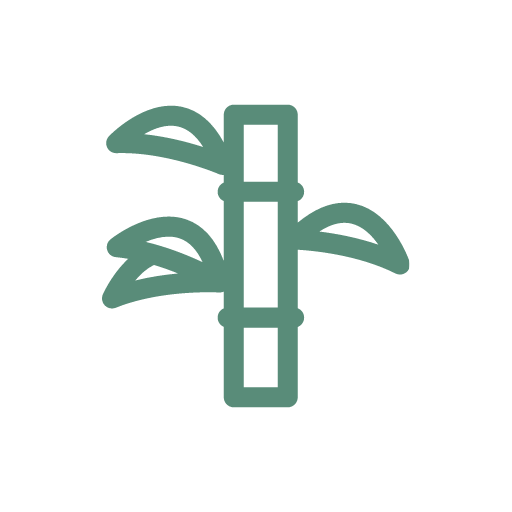
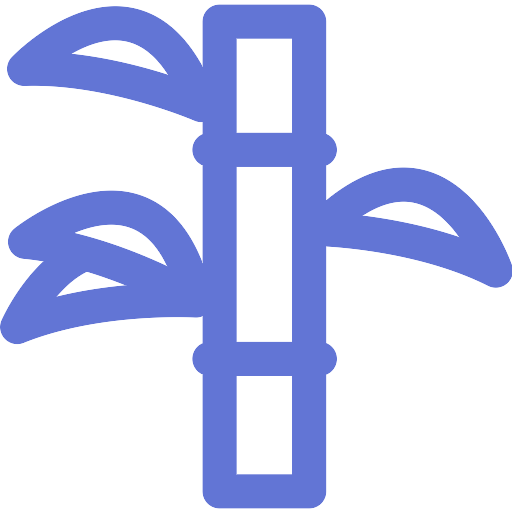
TG-214 Hainübersicht
Implemented grove overview page

diff --git a/groves/frontend/index.html b/groves/frontend/index.html
@@ -9,7 +9,7 @@
     <link data-trunk href="assets/background.webp" rel="copy-file">
     <link data-trunk href="assets/background-login.webp" rel="copy-file">
     <link data-trunk href="assets/icon512_maskable.png" rel="copy-file">
-    <link data-trunk href="assets/icon512_rounded.png" rel="copy-file">
+    <link data-trunk href="assets/icon512_favicon.png" rel="copy-file">
     <link data-trunk href="assets/manifest.json" rel="copy-file">
 
     <link data-trunk href="assets/fonts" rel="copy-dir">
@@ -25,12 +25,12 @@
     <link href="/static/favicon.png" rel="icon" type="image/png">
 
     <link href="/static/manifest.json" rel="manifest">
-    <link color="#598c79" href="/static/favicon.svg" rel="mask-icon">
+    <link color="#6275D5" href="/static/favicon.svg" rel="mask-icon">
 
-    <meta content="#598c79" name="msapplication-TileColor">
-    <meta content="#598c79" name="theme-color">
+    <meta content="#6275D5" name="msapplication-TileColor">
+    <meta content="#6275D5" name="theme-color">
     <meta content="width=device-width, initial-scale=1" name="viewport">
 </head>
-<body class="is--dark">
+<body>
 </body>
 </html>

diff --git a/groves/frontend/assets/css/app.css b/groves/frontend/assets/css/app.css
@@ -1,3 +1,9 @@
+@media screen and (prefers-color-scheme: light) {
+    :root {
+        --gradient-multiplier: 1.25 !important;
+    }
+}
+
 body {
     height: 100vh;
     width: 100vw;
@@ -9,12 +15,11 @@ body {
     margin: 0;
 
     --gradient-bottom-color: transparent !important;
-    --menu-text-selected-color: rgb(204, 204, 204);
     --list-items-width: 17rem;
 }
 
 body > div {
-    background: rgba(var(--white-base) var(--white-base) var(--white-base) / 80%);
+    background: rgba(var(--white-base) var(--white-base) var(--white-base) / 90%);
 }
 
 .login-page ::selection {
@@ -31,4 +36,8 @@ body > div {
 .login-page button:last-child {
     --control-border-color: var(--primary-color);
     --white: #ffffff;
+}
+
+th {
+    text-align: start;
 }

diff --git a/groves/frontend/sections/groves/src/pages/groves.rs b/groves/frontend/sections/groves/src/pages/groves.rs
@@ -1,0 +1,72 @@
+use yew::prelude::*;
+use yew::virtual_dom::Key;
+use yew_autoprops::autoprops;
+use yew_cosmo::prelude::*;
+use yew_hooks::{use_async, use_mount};
+use yew_icons::{Icon, IconId};
+
+use crate::api;
+
+#[autoprops]
+#[function_component(GrovesPage)]
+pub fn groves_page() -> Html {
+    log::debug!("Render groves overview");
+    let groves_state = use_async(async move { api::get_groves().await });
+
+    {
+        let groves_state = groves_state.clone();
+
+        use_mount(move || {
+            groves_state.run();
+        });
+    }
+
+    html!(
+        <>
+            <CosmoTitle title="Haine" />
+            if groves_state.loading {
+                <CosmoProgressRing />
+            } else if groves_state.error.is_some() {
+                <CosmoMessage header="Fehler beim Laden" message="Leider konnten die Haine nicht geladen werden"/>
+            } else if let Some(data) = groves_state.data.clone() {
+                <CosmoToolbar>
+                    <CosmoToolbarGroup>
+                        <CosmoButton label="Neuer Hain" />
+                    </CosmoToolbarGroup>
+                </CosmoToolbar>
+                <CosmoTable headers={vec![AttrValue::from("#"), AttrValue::from("Name"), AttrValue::from("Pausiert"), AttrValue::from("Aktiviert"), AttrValue::from("Aktionen")]}>
+                    {for data.iter().map(|grove| {
+                        CosmoTableRow::from_table_cells(vec![
+                            CosmoTableCell::from_html(html!({grove.id}), None),
+                            CosmoTableCell::from_html(html!({grove.name.clone()}), None),
+                            CosmoTableCell::from_html(html!(
+                                if grove.is_suspended {
+                                    <Icon icon_id={IconId::LucideCheck} />
+                                } else {
+                                    <Icon icon_id={IconId::LucideX} />
+                                }
+                            ), None),
+                            CosmoTableCell::from_html(html!(
+                                if grove.is_enabled {
+                                    <Icon icon_id={IconId::LucideCheck} />
+                                } else {
+                                    <Icon icon_id={IconId::LucideX} />
+                                }
+                            ), None),
+                            CosmoTableCell::from_html(html!(
+                                <>
+                                    <CosmoToolbarGroup>
+                                        <CosmoButton label="Mods anzeigen" />
+                                        <CosmoButton label="Starten" enabled={grove.is_suspended} />
+                                        <CosmoButton label="Pausieren" enabled={!grove.is_suspended} />
+                                        <CosmoButton label="Löschen" />
+                                    </CosmoToolbarGroup>
+                                </>
+                            ), None),
+                        ], Some(Key::from(grove.id.to_string())))
+                    })}
+                </CosmoTable>
+            }
+        </>
+    )
+}

diff --git a/common/backend/dbal/src/grove.rs b/common/backend/dbal/src/grove.rs
@@ -1,5 +1,5 @@
-use sea_orm::{IntoActiveModel, NotSet};
 use sea_orm::prelude::*;
+use sea_orm::{IntoActiveModel, NotSet, QueryOrder};
 
 use bamboo_common_core::entities::*;
 use bamboo_common_core::error::*;
@@ -61,10 +61,14 @@ pub async fn get_grove_by_name(name: String, db: &DatabaseConnection) -> BambooR
 }
 
 pub async fn get_groves(db: &DatabaseConnection) -> BambooResult<Vec<Grove>> {
-    grove::Entity::find().all(db).await.map_err(|err| {
-        log::error!("{err}");
-        BambooError::database("user", "Failed to execute database query")
-    })
+    grove::Entity::find()
+        .order_by_asc(grove::Column::Id)
+        .all(db)
+        .await
+        .map_err(|err| {
+            log::error!("{err}");
+            BambooError::database("user", "Failed to execute database query")
+        })
 }
 
 pub async fn create_grove(name: String, db: &DatabaseConnection) -> BambooResult<Grove> {
@@ -87,32 +91,32 @@ pub async fn migrate_between_groves(
     } else {
         user::Entity::update_many().filter(user::Column::GroveId.is_null())
     }
-        .col_expr(user::Column::GroveId, Expr::value(new_grove_id))
-        .exec(db)
-        .await
-        .map_err(|err| {
-            log::error!(
+    .col_expr(user::Column::GroveId, Expr::value(new_grove_id))
+    .exec(db)
+    .await
+    .map_err(|err| {
+        log::error!(
             "Failed to migrate users from grove {old_grove_id:?} to {new_grove_id} grove {err}"
         );
-            BambooError::database("grove", "Failed to create grove")
-        })
-        .map(|_| ())?;
+        BambooError::database("grove", "Failed to create grove")
+    })
+    .map(|_| ())?;
 
     if let Some(id) = old_grove_id {
         event::Entity::update_many().filter(event::Column::GroveId.eq(id))
     } else {
         event::Entity::update_many().filter(event::Column::GroveId.is_null())
     }
-        .col_expr(event::Column::GroveId, Expr::value(new_grove_id))
-        .exec(db)
-        .await
-        .map_err(|err| {
-            log::error!(
+    .col_expr(event::Column::GroveId, Expr::value(new_grove_id))
+    .exec(db)
+    .await
+    .map_err(|err| {
+        log::error!(
             "Failed to migrate events from grove {old_grove_id:?} to {new_grove_id} grove {err}"
         );
-            BambooError::database("grove", "Failed to create grove")
-        })
-        .map(|_| ())
+        BambooError::database("grove", "Failed to create grove")
+    })
+    .map(|_| ())
 }
 
 pub async fn disable_grove(id: i32, db: &DatabaseConnection) -> BambooErrorResult {

diff --git a/groves/frontend/sections/layout/src/pages/layout.rs b/groves/frontend/sections/layout/src/pages/layout.rs
@@ -7,6 +7,7 @@ use yew_hooks::{use_async, use_mount};
 use yew_router::prelude::*;
 
 use bamboo_groves_frontend_base::routing::AppRoute;
+use bamboo_groves_frontend_section_groves::GrovesPage;
 use bamboo_groves_frontend_section_login::LoginPage;
 
 use crate::api;
@@ -21,7 +22,12 @@ fn switch_sub_menu(route: AppRoute) -> Html {
 fn switch_app(route: AppRoute) -> Html {
     match route {
         AppRoute::Groves => html!(
-            <h1>{"Hello World"}</h1>
+            <>
+                <Helmet>
+                    <title>{"Haine"}</title>
+                </Helmet>
+                <GrovesPage />
+            </>
         ),
         AppRoute::Home => html!(
             <Redirect<AppRoute> to={AppRoute::Groves} />

diff --git a/groves/backend/src/routes/mod.rs b/groves/backend/src/routes/mod.rs
@@ -4,6 +4,7 @@ use crate::middleware::authenticate_user::authenticate;
 use bamboo_common::backend::services::{EnvService, EnvironmentService};
 
 mod authentication;
+mod groves;
 
 pub fn configure_routes(cfg: &mut web::ServiceConfig) {
     let environment_service = EnvService::new(EnvironmentService::new());
@@ -21,6 +22,7 @@ pub fn configure_routes(cfg: &mut web::ServiceConfig) {
                 .to(HttpResponse::NoContent)
                 .wrap(authenticate!()),
         )
+        .service(groves::get_groves)
         .service(
             actix_web_lab::web::spa()
                 .index_file(format!("{frontend_base_path}/dist/index.html"))

diff --git a/groves/frontend/src/app.rs b/groves/frontend/src/app.rs
@@ -15,7 +15,7 @@ fn format_title(s: AttrValue) -> AttrValue {
 #[function_component(App)]
 pub fn app() -> Html {
     html!(
-        <CosmoPageLayout primary_color="#598C79" primary_color_dark="#598C79" default_title="Hainverwaltung" format_title={format_title}>
+        <CosmoPageLayout primary_color="#6275D5" primary_color_dark="#6275D5" default_title="Hainverwaltung" format_title={format_title}>
             <BrowserRouter>
                 <Layout />
             </BrowserRouter>

diff --git a/groves/backend/src/routes/groves.rs b/groves/backend/src/routes/groves.rs
@@ -1,0 +1,13 @@
+use actix_web::get;
+
+use bamboo_common::backend::dbal;
+use bamboo_common::backend::response::list;
+use bamboo_common::backend::services::DbConnection;
+use bamboo_common::core::error::BambooApiResponseResult;
+
+use crate::middleware::authenticate_user::authenticate;
+
+#[get("/api/grove", wrap = "authenticate!()")]
+pub async fn get_groves(db: DbConnection) -> BambooApiResponseResult {
+    dbal::get_groves(&db).await.map(|data| list!(data))
+}

diff --git a/groves/backend/src/routes/authentication.rs b/groves/backend/src/routes/authentication.rs
@@ -173,7 +173,7 @@ pub async fn logout(
     session: Session,
     env_service: EnvService,
     host: Host,
-) -> Result<Redirect, BambooError> {
+) -> BambooResult<Redirect> {
     let access_token = session
         .get::<AccessToken>(ACCESS_TOKEN)
         .map_err(|err| {

diff --git a/groves/frontend/sections/groves/src/api/mod.rs b/groves/frontend/sections/groves/src/api/mod.rs
@@ -1,0 +1,7 @@
+use bamboo_common::core::entities::Grove;
+use bamboo_common::frontend::api::{get, BambooApiResult};
+
+pub async fn get_groves() -> BambooApiResult<Vec<Grove>> {
+    log::debug!("Get all groves");
+    get("/api/grove").await
+}

diff --git a/groves/frontend/sections/groves/src/lib.rs b/groves/frontend/sections/groves/src/lib.rs
@@ -1,0 +1,4 @@
+pub use pages::groves::*;
+
+mod api;
+pub mod pages;

diff --git a/groves/frontend/sections/groves/src/pages/mod.rs b/groves/frontend/sections/groves/src/pages/mod.rs
@@ -1,0 +1,1 @@
+pub mod groves;
